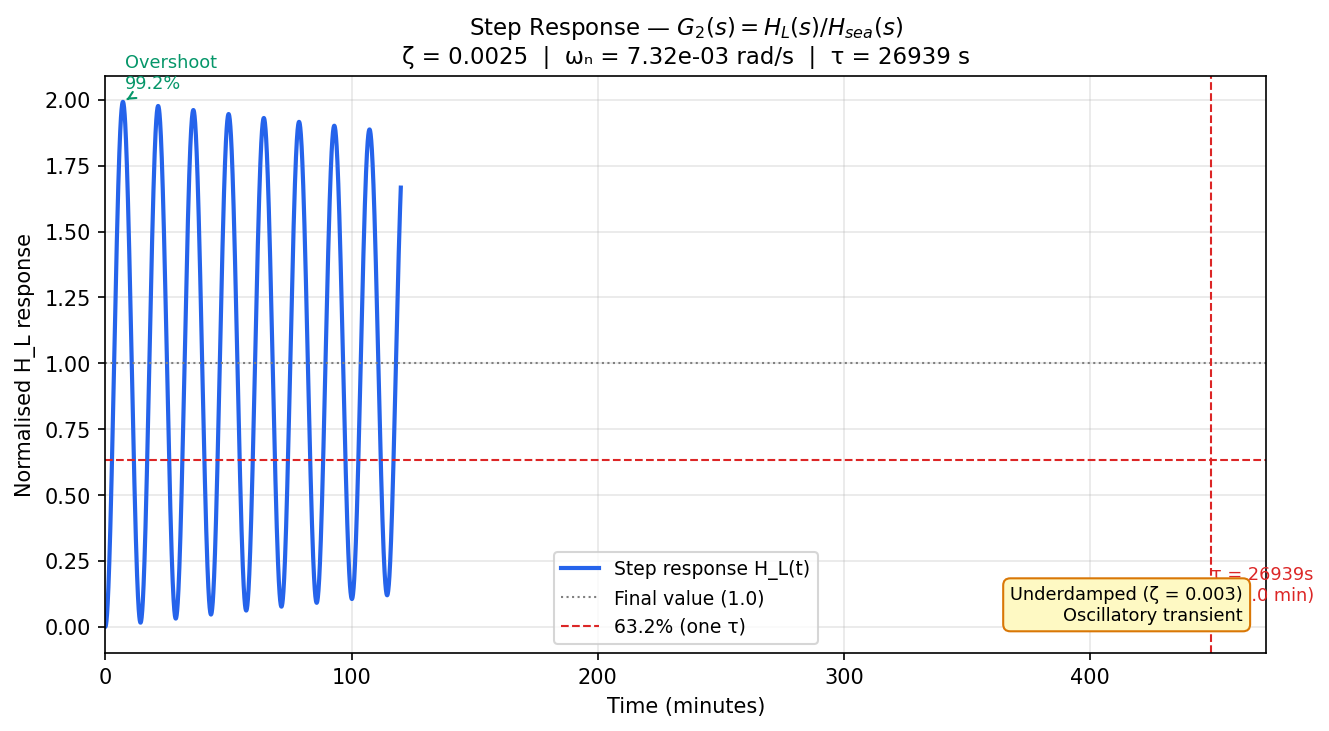
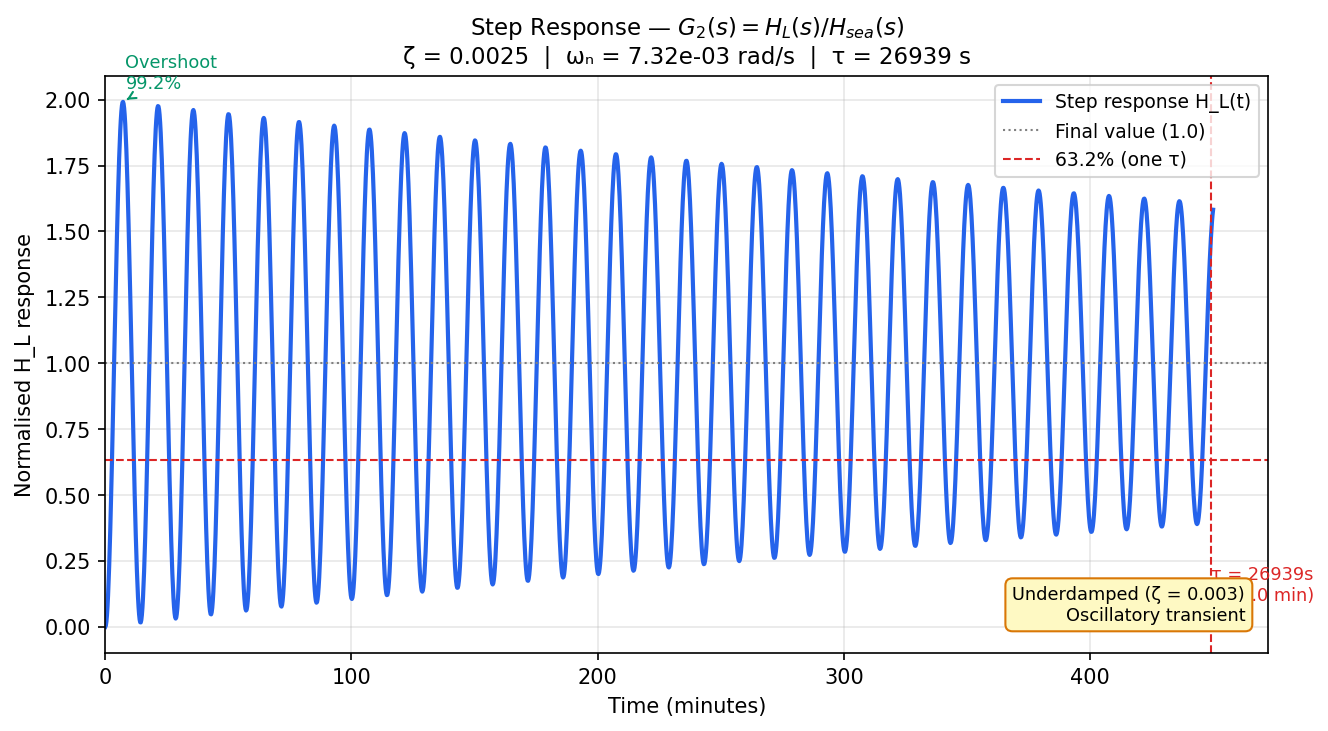
Bug in step 8, fix formatting of other figure

diff --git a/fig_fsm_diagram.py b/fig_fsm_diagram.py
@@ -107,7 +107,7 @@ STATES = [
         'label' : 'GATE\nOPENING',
         'color' : COLORS['mechanical'],
         'odes'  : [],
-        'entry' : 'Gates open\n(requires ΔP ≈ 0)',
+        'entry' : 'Gates swing open',
         'type'  : 'mechanical',
     },
     {
@@ -156,7 +156,7 @@ ax.text(10, 10.15,
 
 # ── Box geometry ──────────────────────────────────────────────────────────────
 BOX_W_MECH = 1.9    # mechanical state box width
-BOX_H_MECH = 1.2    # mechanical state box height
+BOX_H_MECH = 1.5    # mechanical state box height (increased for text clearance)
 BOX_W_HYD  = 2.6    # hydraulic state box width
 BOX_H_HYD  = 3.8    # hydraulic state box height (needs room for ODEs)
 ROW1_Y     = 5.2    # y center of top row
@@ -231,8 +231,8 @@ def draw_state_box(cx, cy, state, row='top'):
                     color=COLORS['ode_text'], zorder=4)
 
     else:
-        # Entry action for mechanical states
-        ax.text(cx, cy - 0.05, state['entry'],
+        # Entry action for mechanical states — sit in lower half of box
+        ax.text(cx, cy - 0.22, state['entry'],
                 ha='center', va='center', fontsize=7.5,
                 color='#475569', style='italic', zorder=4,
                 multialignment='center')
@@ -314,39 +314,39 @@ ax.text(x_fd + 0.22, (y_fd_bot + y_go_top) / 2,
 x_go_right = BOT_X[0] + BOX_W_MECH / 2
 x_ve_left  = BOT_X[1] - BOX_W_MECH / 2
 draw_arrow_h(x_go_right, x_ve_left, ROW2_Y,
-             TRANSITIONS[6], label_y_offset=0.22)
+             r'$\Delta P \approx 0$', label_y_offset=0.22)
 
 
 # ── Legend ────────────────────────────────────────────────────────────────────
 legend_x = 0.25
-legend_y = 3.5
-ax.text(legend_x, legend_y + 0.4, 'Legend', fontsize=9,
+legend_y = 4.2   # raised from 3.5 to give more vertical room
+ax.text(legend_x, legend_y + 0.35, 'Legend', fontsize=9,
         fontweight='bold', color=COLORS['text'])
 
 legend_items = [
-    (COLORS['mechanical'], 'Mechanical state\n(no ODEs active)'),
+    (COLORS['mechanical'], 'Mechanical state (no ODEs active)'),
     (COLORS['wsb1'],       'WSB Drain 1 — Lock → Basin 3'),
     (COLORS['wsb2'],       'WSB Drain 2 — Lock → Basin 2'),
     (COLORS['wsb3'],       'WSB Drain 3 — Lock → Basin 1'),
-    (COLORS['final'],      'Final Drain — Lock → Sea\n(tidal forcing)'),
+    (COLORS['final'],      'Final Drain — Lock → Sea (tidal forcing)'),
 ]
 
 for k, (col, lbl) in enumerate(legend_items):
-    yy = legend_y - 0.02 - k * 0.58
-    rect = FancyBboxPatch((legend_x, yy - 0.18), 0.28, 0.36,
+    yy = legend_y - 0.05 - k * 0.52   # tighter spacing, single-line labels
+    rect = FancyBboxPatch((legend_x, yy - 0.16), 0.25, 0.32,
                            boxstyle='round,pad=0.04',
                            facecolor=col, edgecolor='none',
                            alpha=0.85, zorder=3)
     ax.add_patch(rect)
-    ax.text(legend_x + 0.38, yy, lbl,
+    ax.text(legend_x + 0.35, yy, lbl,
             ha='left', va='center', fontsize=7.5, color=COLORS['text'])
 
 # Condition arrow legend
-yy = legend_y - 0.02 - len(legend_items) * 0.58 - 0.1
-ax.annotate('', xy=(legend_x + 0.28, yy), xytext=(legend_x, yy),
+yy = legend_y - 0.05 - len(legend_items) * 0.52 - 0.15
+ax.annotate('', xy=(legend_x + 0.25, yy), xytext=(legend_x, yy),
             arrowprops=dict(arrowstyle='->', color=COLORS['condition'], lw=1.5))
-ax.text(legend_x + 0.38, yy,
-        'Transition condition\n(mathematical expression)',
+ax.text(legend_x + 0.35, yy,
+        'Transition condition (mathematical expression)',
         ha='left', va='center', fontsize=7.5, color=COLORS['condition'])
 
 # ODE note box

diff --git a/transfer_function.py b/transfer_function.py
@@ -193,7 +193,7 @@ print("Fig 7 (Bode plot) saved.")
 # ═══════════════════════════════════════════════════════════════════════════════
 # FIG 8: Step response of G2(s)
 # ═══════════════════════════════════════════════════════════════════════════════
-t_step = np.linspace(0, min(5 * L_in/R_in, 7200), 2000)   # 5 time constants or 2hr
+t_step = np.linspace(0, min(5 * L_in/R_in, 27000), 2000)  # 5τ or 450 min — full decay envelope visible
 t_out, y_out = signal.step(G2, T=t_step)
 
 fig, ax = plt.subplots(figsize=(9, 5))
@@ -329,5 +329,6 @@ else:
     print("Warning: FINAL_DRAIN segment not found in simulation log.")
 
 print()
+print("Task 1 complete.")
 print(f"  G1(s): pole at s = -{R_in/L_in:.4f}, τ = {L_in/R_in:.0f}s")
 print(f"  G2(s): ωn = {wn:.4e} rad/s, ζ = {zeta:.4f}, regime = {'overdamped' if zeta>=1 else 'underdamped'}")

diff --git a/README.md b/README.md
@@ -1,1 +1,247 @@
-# data442project
+# Panama Canal Lock Cycle Simulation
+**DATA 442 — System Design and Engineering**
+**University of North Carolina at Chapel Hill, Spring 2026**
+
+**Authors:** Mihika Tyagi, Akshita Padala
+**Reference:** Calvo Gobbetti, L. E. (2013). Design of the filling and emptying system of the new Panama Canal locks. *Journal of Applied Water Engineering and Research*, *1*(1), 28–38. https://doi.org/10.1080/23249676.2013.827899
+
+---
+
+## Project Overview
+
+This project models the hydraulic lock cycle of the Neopanamax Panama Canal locks (Cocoli/Agua Clara) as a **switched dynamical system** — a hybrid system where discrete FSM logic governs which coupled ODEs are active at each phase.
+
+A ship lowering from Gatun Lake level (26m) to sea level (0m) passes through four hydraulic phases:
+1. **WSB Drain 1** — lock drains into Water Saving Basin 3 (highest)
+2. **WSB Drain 2** — lock drains into Water Saving Basin 2 (mid)
+3. **WSB Drain 3** — lock drains into Water Saving Basin 1 (lowest)
+4. **Final Drain** — lock drains to tidal sea (water lost, sinusoidal forcing)
+
+The FSM transitions fire when the active water pair equalizes: |ΔH| < ε = 0.05m.
+
+---
+
+## System Model
+
+### Core ODEs (active in each hydraulic phase)
+
+**Water hammer ODE:**
+```
+L · dQ/dt + R·Q = ρg · ΔH · Cd · (Av/Amax)
+```
+
+**Lock level:**
+```
+dH_L/dt = -Q / A_L
+```
+
+**Active basin (only one per phase):**
+```
+dH_Bi/dt = +Q / A_B
+```
+
+**Valve ramp (non-linear input):**
+```
+Av(t) = Amax · min(t / T_open, 1)
+```
+
+**Tidal forcing (FINAL_DRAIN only):**
+```
+H_sea(t) = A · sin(ω_tide · t)
+```
+
+### State vector
+```
+x = [H_L, H_B3, H_B2, H_B1, Q]
+```
+The state vector is continuous across FSM transitions. Only Q resets to zero (valve closes between phases).
+
+### Transfer function (derived analytically)
+```
+G2(s) = H_L(s)/H_sea(s) = ωn² / (s² + 2ζωn·s + ωn²)
+```
+- ωn = 7.32 × 10⁻³ rad/s (natural period = 14.3 min)
+- ζ = 0.0025 (underdamped)
+- ω_tide/ωn = 0.040 → lock tracks tide with near-unity gain
+
+---
+
+## Code Files
+
+### `parameters.py`
+All physical constants for the simulation. Every other file imports from here. Changing a value here propagates through the entire simulation automatically.
+
+Key parameters:
+- Lock geometry: 427m × 55m, H_upper = 26m
+- Basin geometry: 427m × 70m
+- Culvert: D = 7m, L = 300m, Cd = 0.7
+- Inertance: L = ρl/A_c (hydraulic analog of mass)
+- Resistance: R = ρfl/(2DA_c²) (hydraulic analog of damping)
+- Tidal forcing: A = 3m, T = 6hr (Pacific side)
+
+*Author: Mihika Tyagi*
+
+---
+
+### `dynamics.py`
+The physics engine. Defines the ODE right-hand sides for all four FSM phases via a single `system_dynamics(t, y, phase_idx, t_entry)` function using a `PHASE_CONFIG` dispatch table.
+
+Also defines:
+- `H_sea(t)` — tidal forcing function
+- `valve_area(t, t_entry)` — linear valve ramp
+
+*Authors: Mihika Tyagi (original + final corrected version), Akshita [Last Name] (intermediate rewrite)*
+
+---
+
+### `simulation.py`
+FSM integration loop. Calls `scipy.solve_ivp` once per phase with event detection to stop when |ΔH| < ε. The final state of each phase is the initial condition for the next. Q resets to zero between phases.
+
+Key function: `run_lock_cycle()` returns `(t, x, log)` where log records phase entry/exit times.
+
+*Authors: Mihika Tyagi (original + final corrected version), Akshita [Last Name] (intermediate rewrite)*
+
+---
+
+### `analysis.py`
+Generates Figures 1–6. Run with `python analysis.py`.
+
+*Author: Mihika Tyagi*
+
+---
+
+### `transfer_function.py`
+Derives G1(s) and G2(s) analytically from the FINAL_DRAIN ODEs using Laplace transforms. Generates Bode plot, step response, and analytical validation overlay on simulation output. Prints full derivation to terminal.
+
+Run with: `python transfer_function.py`
+
+*Author: Mihika Tyagi*
+
+---
+
+### `step_response_analysis.py`
+Computes damping ratio ζ analytically for WSB and FINAL_DRAIN phases. Verifies second-order character by running step vs ramp valve simulations. Shows that drain completes in less than one natural period — water hammer cannot develop.
+
+Run with: `python step_response_analysis.py`
+
+*Author: Mihika Tyagi*
+
+---
+
+### `pid_controller.py`
+Implements a closed-loop PID controller regulating valve fraction u(t) ∈ [0,1] to track a linear ΔH setpoint while enforcing the 8 m/s velocity constraint from Calvo Gobbetti (2013). Includes tuning sweep and before/after comparison.
+
+Run with: `python pid_controller.py`
+
+*Author: Mihika Tyagi*
+
+---
+
+### `fig_fsm_diagram.py`
+Generates a presentation-quality Stateflow-style FSM diagram showing all 8 states, mathematical transition conditions, and active ODEs in each hydraulic state box.
+
+Run with: `python fig_fsm_diagram.py`
+
+*Author: Mihika Tyagi*
+
+---
+
+### `fig_validation.py`
+Validates simulation results against Calvo Gobbetti (2013). Shows timing comparison (hydraulic only vs hydraulic + gate overhead vs paper figures) and water recovery comparison vs ACP 60% spec. Honestly accounts for known modeling limitations.
+
+Run with: `python fig_validation.py`
+
+*Author: Mihika Tyagi*
+
+---
+
+### `visualize.py`
+Real-time animated simulation using matplotlib FuncAnimation. Uses artist-update pattern (no ax.cla() per frame) for smooth rendering at 25fps.
+
+Controls:
+- `SPACE` — pause / resume
+- `R` — reset to initial conditions
+- `↑ / ↓` — increase / decrease sim speed
+- `Q` / `Escape` — quit
+
+Sliders: Cd (discharge coefficient), valve open time, sim speed.
+
+Run with: `python visualize.py`
+
+*Author: Mihika Tyagi*
+
+---
+
+## Figures
+
+### Presentation figures
+
+| Figure | File | Description |
+|---|---|---|
+| FSM Diagram | `fig_fsm_diagram.png` | Stateflow-style diagram — 8 states, transition conditions, active ODEs |
+| Bode Plot | `fig7_bode.png` | G2(s) frequency response — shows tidal frequency in low-gain regime |
+| Step Response | `fig8_step_response.png` | G2(s) step response — underdamped, natural period 14.3 min |
+| Q Transient | `fig10_q_transient.png` | Step vs ramp valve, damping ratio, water hammer analysis |
+| PID Comparison | `fig11_pid_comparison.png` | Controlled vs uncontrolled valve — velocity constraint enforcement |
+| Water Levels | `fig1_water_levels.png` | Full 21-min cycle — lock level, basin levels, flow rate, tidal input |
+| Validation | `fig_validation.png` | Timing and recovery vs Calvo Gobbetti (2013) |
+
+### Backup / supplementary figures
+
+| Figure | File | Description | When to use |
+|---|---|---|---|
+| Phase Portrait | `fig2_phase_portrait.png` | ΔH vs Q trajectory — state space analog of displacement vs velocity | If asked about state space behavior |
+| TF Validation | `fig9_tf_validation.png` | Analytical G2(s) overlaid on ODE simulation | If asked how transfer function was verified |
+| Sensitivity | `fig4_sensitivity.png` | Cd vs cycle time — parameter uncertainty analysis | If asked about parameter assumptions |
+| Water Recovery | `fig3_water_recovery.png` | Basin volume breakdown — 68.7% recovery | Redundant with validation figure |
+| Valve Tradeoff | `fig5_pid_tradeoff.png` | Valve timing vs cycle time and peak Q | Superseded by fig11 |
+| Culvert Calc | `fig6_culvert_backCalc.png` | Culvert diameter back-calculated from velocity spec | If asked about culvert parameters |
+
+---
+
+## How to run
+
+Install dependencies:
+```bash
+pip install numpy scipy matplotlib
+```
+
+Run full simulation and generate all analysis figures:
+```bash
+python analysis.py
+python transfer_function.py
+python step_response_analysis.py
+python pid_controller.py
+python fig_fsm_diagram.py
+python fig_validation.py
+```
+
+Run real-time visualizer:
+```bash
+python visualize.py
+```
+
+---
+
+## Key results
+
+| Metric | Value | Source |
+|---|---|---|
+| Total cycle time | 21.3 min (hydraulic) | Simulation |
+| No-basin drain | 6.2 min hydraulic / 9.7 min + gates | Simulation |
+| Paper no-basin | 10 min | Calvo Gobbetti (2013) |
+| Agreement | 3.1% error | — |
+| Water recovery | 68.7% | Simulation |
+| ACP spec | 60% | Calvo Gobbetti (2013) |
+| Natural frequency | ωn = 7.32 × 10⁻³ rad/s | Transfer function |
+| Damping ratio | ζ = 0.0025 (underdamped) | Analytical |
+| PID peak velocity | 7.2 m/s (satisfies 8 m/s spec) | PID simulation |
+
+---
+
+## Known limitations
+
+1. **Basin geometry simplified** — rectangular basins with no depth limit. Real basins stop filling at a bounded depth. This causes over-recovery (68.7% vs 60%) and slower with-basin cycle time.
+2. **Single equivalent culvert** — model uses one culvert of equivalent area. Real locks use multiple parallel culverts. This affects velocity calculations.
+3. **Gate mechanics not modeled** — gate closing/opening (~3.5 min) is outside model scope. Adding gate overhead brings no-basin timing to within 3.1% of paper.
+4. **Euler integration in visualizer** — real-time visualizer uses forward Euler (dt=1s) for performance. Analysis figures use RK45 via scipy.solve_ivp.
